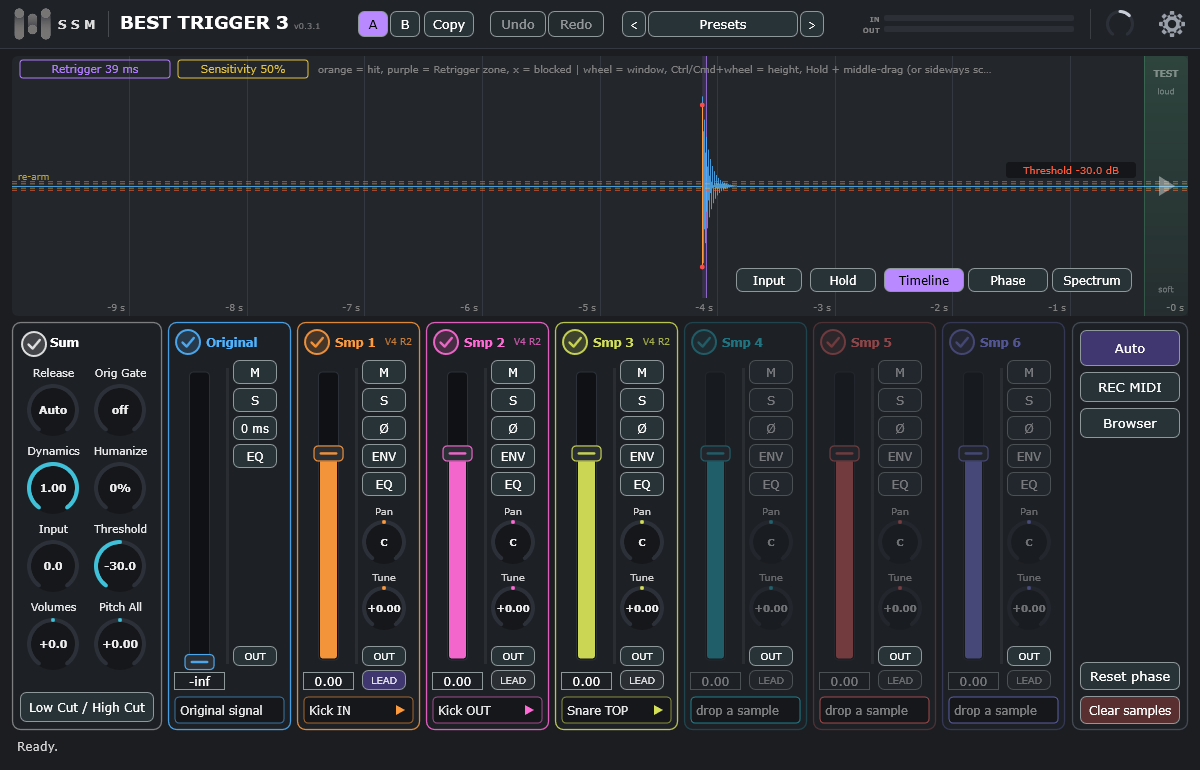
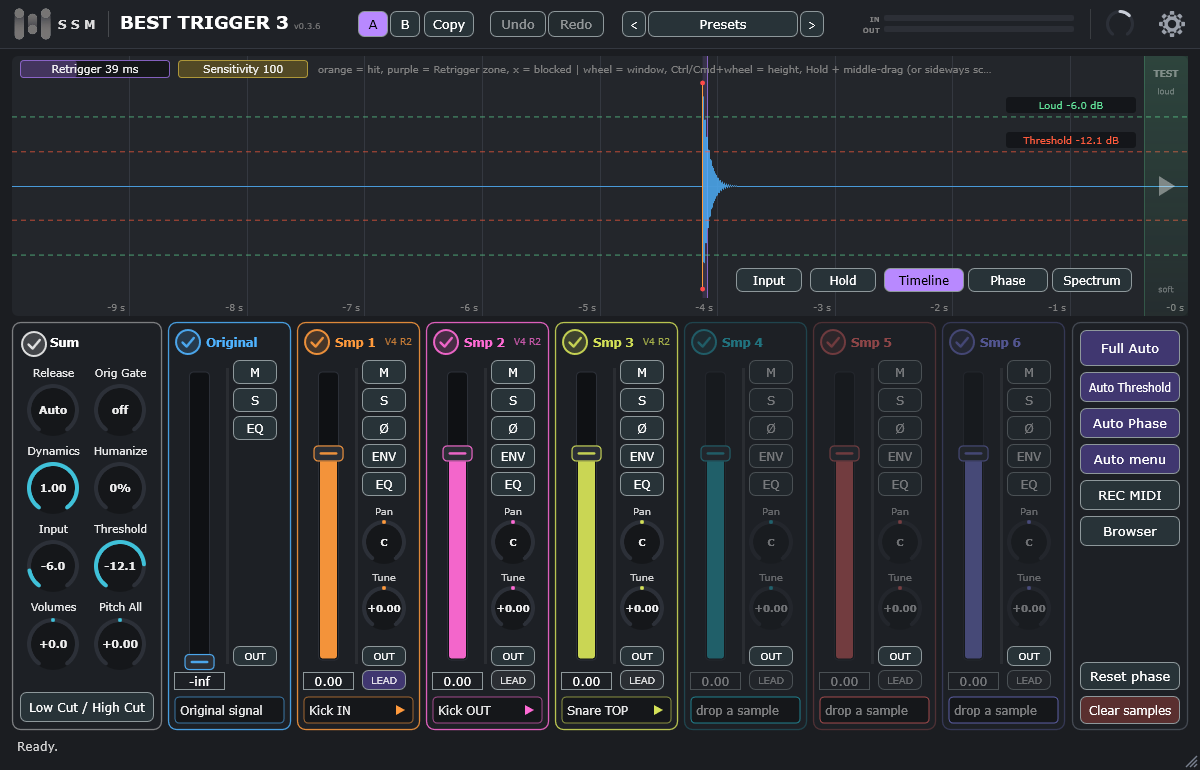
Manuals, README, picture: channel drag, window grip

diff --git a/docs/manual-ru.html b/docs/manual-ru.html
@@ -179,6 +179,7 @@
 <ul>
   <li>Перетащите файл на плашку или щёлкните плашку правой кнопкой: <b>Load sample or .bt3 file…</b>, <b>Load folder (multisample)…</b>, <b>Save multisample file (.bt3)…</b>, <b>Copy sample</b> и <b>Paste sample</b> (тот же сэмпл в другой канал), <b>Rename…</b> (имя на плашке; сохраняется в проекте), <b>Copy sample name</b> (имя с расширением в буфер обмена), <b>Clear sample</b>. WAV, AIFF, FLAC.</li>
   <li>Перетащите плашку на другую плашку: два сэмпла меняются местами (с зажатым <kbd>Ctrl</kbd>/<kbd>Cmd</kbd> на новое место ставится копия, а первый остаётся). Уровни, пан и остальные настройки остаются у каналов.</li>
+  <li>Перетащите название канала (<b>Smp 3</b> вверху полосы) на другой канал: два канала меняются местами вместе с сэмплом и всем, что для него настроено: уровень, mute, solo, фаза, пан, Tune, огибающая, фильтры, EQ, роль и Offset (с зажатым <kbd>Ctrl</kbd>/<kbd>Cmd</kbd> первый канал копируется на второй). Переключатель <b>OUT</b> остаётся на месте, потому что он относится к маршрутизации выходов в вашей DAW. Если параметры канала автоматизированы в DAW, автоматизация остаётся у номера канала, а не у сэмпла. Сэмпл, который в этот момент звучит, доигрывает уже с новыми настройками.</li>
   <li><kbd>Ctrl</kbd>/<kbd>Cmd</kbd> + щелчок по плашкам или рамка, проведённая по пустому месту микшера, выделяют сэмплы (белая рамка). В виде Phase перетаскивание Offset одного из выделенных двигает все выделенные на одно и то же значение. Щелчок по пустому месту снимает выделение.</li>
   <li>Щелчок по плашке играет только этот сэмпл со всеми его настройками; правее — сильнее.</li>
 </ul>
@@ -253,7 +254,7 @@
 <h1 id="settings">13. Настройки (шестерёнка)</h1>
 <table>
   <tr><th style="width:230px">Пункт</th><th>Что делает</th></tr>
-  <tr><td><b>Interface scale</b></td><td>Размер окна, 70–200%.</td></tr>
+  <tr><td><b>Interface scale</b></td><td>Размер окна, 70–200%. Размер можно менять и мышью за уголок в правом нижнем углу окна (50–300%; двойной щелчок: 100%); он запоминается.</td></tr>
   <tr><td><b>Scope smoothing…</b></td><td>Сглаживает только картинку.</td></tr>
   <tr><td><b>Trigger source</b></td><td>Аудио или MIDI.</td></tr>
   <tr><td><b>MIDI in / out note</b></td><td>Ноты.</td></tr>

diff --git a/docs/manual-en.html b/docs/manual-en.html
@@ -179,6 +179,7 @@
 <ul>
   <li>drop a file on a plate, or right-click the plate: <b>Load sample or .bt3 file…</b>, <b>Load folder (multisample)…</b>, <b>Save multisample file (.bt3)…</b>, <b>Copy sample</b> and <b>Paste sample</b> (the same sample into another channel), <b>Rename…</b> (the name on the plate; it is saved with the project), <b>Copy sample name</b> (name and extension, to the clipboard), <b>Clear sample</b>. WAV, AIFF, FLAC.</li>
   <li>Drag a plate onto another plate: the two samples swap places (<kbd>Ctrl</kbd>/<kbd>Cmd</kbd> held: a copy is put there and the first stays). Levels, pan and the other settings stay with the channels.</li>
+  <li>Drag the name of a channel (<b>Smp 3</b> at the top of the strip) onto another channel: the two channels swap places with the sample and everything set for it: level, mute, solo, phase, pan, tune, envelope, filters, EQ, role and Offset (<kbd>Ctrl</kbd>/<kbd>Cmd</kbd> held: the first channel is copied onto the second). The <b>OUT</b> switch stays where it is, because it belongs to the output routing in your DAW. If a channel's parameters are automated in the DAW, the automation stays with the channel number, not with the sample. A sample that is sounding at that moment finishes with the new settings.</li>
   <li><kbd>Ctrl</kbd>/<kbd>Cmd</kbd> + click on plates, or a frame drawn over the empty part of the mixer, selects samples (white border). In the Phase view, dragging the Offset of one selected sample moves all the selected ones by the same amount. A click on an empty place clears the selection.</li>
   <li>A click on a plate plays only that sample with all its settings; further right = harder.</li>
 </ul>
@@ -253,7 +254,7 @@
 <h1 id="settings">13. Settings (the gear)</h1>
 <table>
   <tr><th style="width:230px">Item</th><th>What it does</th></tr>
-  <tr><td><b>Interface scale</b></td><td>Window size, 70–200%.</td></tr>
+  <tr><td><b>Interface scale</b></td><td>Window size, 70–200%. You can also drag the grip in the bottom right corner of the window (50–300%; a double click: 100%); the size is remembered.</td></tr>
   <tr><td><b>Scope smoothing…</b></td><td>Smooths the picture only.</td></tr>
   <tr><td><b>Trigger source</b></td><td>Audio or MIDI.</td></tr>
   <tr><td><b>MIDI in / out note</b></td><td>The notes.</td></tr>

diff --git a/README.md b/README.md
@@ -11,6 +11,7 @@
 - **Full Auto** sets the threshold, the phase of the samples and their balance for you.
 - Up to six samples per hit, with automatic phase alignment.
 - Scope with **Timeline**, **Phase** and **Spectrum** views.
+- EQ on every channel with a live spectrum; channels can be swapped by dragging.
 - Separate outputs, sample browser, online libraries, (free .tci) to .bt3 converter.
 
 **Manual:** [English](https://ssm-audio.github.io/Best-Trigger-3/manual-en.html) · **Changelog:** [CHANGELOG.md](CHANGELOG.md#english) · [Video](https://www.youtube.com/@SSM-AUDIO) · [Telegram](https://t.me/ssm_metalmix)
@@ -32,6 +33,7 @@ Windows 10/11 64-bit or macOS 10.15+; a DAW with VST3.
 - **Full Auto** сам подбирает порог, фазу сэмплов и их баланс.
 - До шести сэмплов на один удар с автоматическим выравниванием фазы.
 - Осциллограф с видами **Timeline**, **Phase** и **Spectrum**.
+- EQ на каждом канале с живым спектром; каналы меняются местами перетаскиванием.
 - Отдельные выходы, браузер сэмплов, онлайн-библиотеки, конвертер не коммерческих .tci в .bt3.
 
 **Руководство:** [Русский](https://ssm-audio.github.io/Best-Trigger-3/manual-ru.html) · **История изменений:** [CHANGELOG.md](CHANGELOG.md#русский) · [Видео](https://www.youtube.com/@SSM-AUDIO) · [Telegram](https://t.me/ssm_metalmix)
